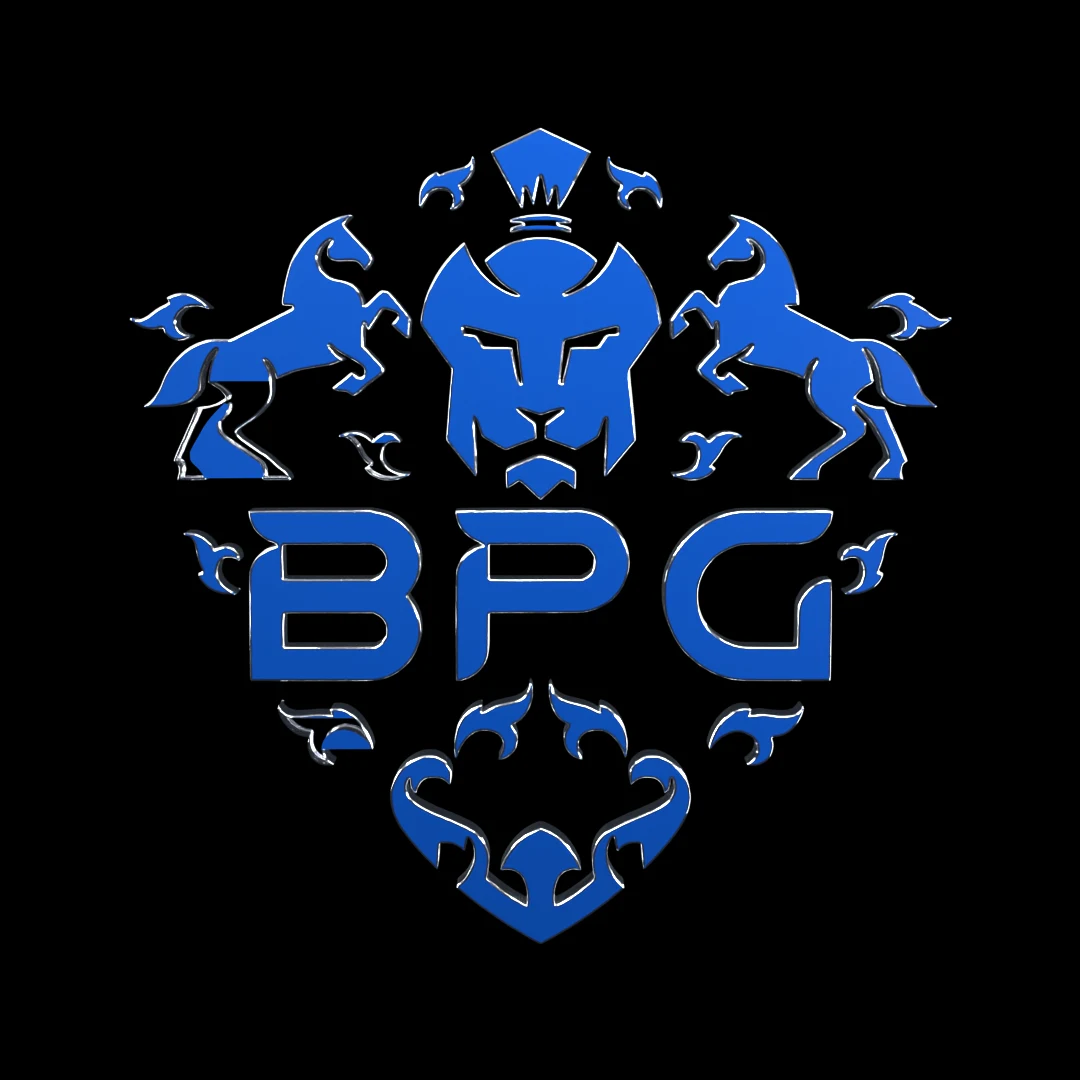
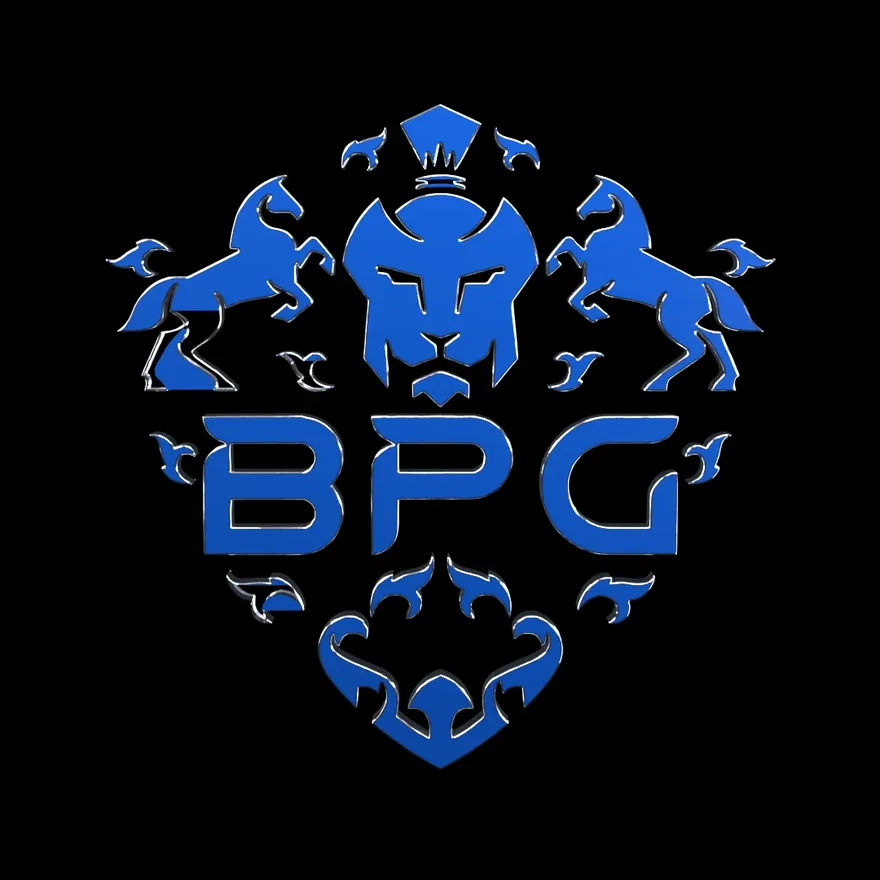
perf: faster LCP and full accessibility on both sites
- Hero LCP images stay opaque with a transform-only entrance (CSS, not a
  hydration-gated JS tween) and are preloaded
- Client logos as 2x-sized WebP (~205 KB -> ~54 KB), smaller emblem poster
- Logo and thumbnail sizes so phones fetch right-sized images
- Name client logo links for screen readers; underline the media footer
  link and enlarge footer tap targets

diff --git a/src/components/hero-cards.tsx b/src/components/hero-cards.tsx
@@ -2,10 +2,12 @@
 
 import { useRef } from "react";
 import Image from "next/image";
-import { gsap, useGSAP, EASE, MOTION_OK } from "@/lib/gsap";
+import { gsap, useGSAP, MOTION_OK } from "@/lib/gsap";
 import { verticals, brand } from "@/content/site";
 
-// Stack of floating liquid-glass cards. On desktop each layer sits at a
+// Stack of floating liquid-glass cards. Each card fades up with a CSS
+// animation (starts on first paint, unlike a JS tween that waits for
+// hydration and delays LCP); GSAP drives only scroll depth and pointer tilt. On desktop each layer sits at a
 // different depth: they tilt toward the pointer (quickTo, no React state) and
 // drift apart on scroll. Below lg the cards fall back to a clean grid (Media
 // full width, Tourism and Trading side by side) so nothing overlaps.
@@ -16,17 +18,6 @@ export function HeroCards() {
   useGSAP(
     () => {
       const mm = gsap.matchMedia();
-      mm.add(MOTION_OK, () => {
-        gsap.from(".hc", {
-          y: 70,
-          opacity: 0,
-          rotateX: -12,
-          duration: 1.3,
-          ease: EASE,
-          stagger: 0.12,
-          delay: 0.25,
-        });
-      });
 
       // Scroll depth (desktop layered composition only): deeper layers move less.
       mm.add(`${MOTION_OK} and (min-width: 1024px)`, () => {
@@ -82,27 +73,29 @@ export function HeroCards() {
           className="hc relative z-20 col-span-2 lg:absolute lg:inset-x-[4%] lg:top-[7%]"
           data-depth="1.4"
         >
-          <div className="hc-shift" data-depth="1.4">
-            <div className="lg animate-float overflow-hidden rounded-[30px] p-3">
-              <div className="relative aspect-[16/10] overflow-hidden rounded-[22px]">
-                <Image
-                  src={media.image}
-                  alt={media.alt}
-                  fill
-                  preload
-                  sizes="(min-width: 1024px) 480px, 92vw"
-                  className="object-cover"
-                />
-              </div>
-              <div className="flex items-center justify-between gap-3 px-2 pt-4 pb-1.5">
-                <div>
-                  <p className="text-[19px] font-semibold tracking-[-0.01em]">{media.name}</p>
-                  <p className="text-[14px] text-muted">{media.tagline}</p>
+          <div className="animate-rise-solid">
+            <div className="hc-shift" data-depth="1.4">
+              <div className="lg animate-float overflow-hidden rounded-[30px] p-3">
+                <div className="relative aspect-[16/10] overflow-hidden rounded-[22px]">
+                  <Image
+                    src={media.image}
+                    alt={media.alt}
+                    fill
+                    preload
+                    sizes="(min-width: 1024px) 480px, 92vw"
+                    className="object-cover"
+                  />
                 </div>
-                <span className="lg-thin inline-flex shrink-0 items-center gap-2 rounded-full px-3 py-1.5 text-[13px] font-semibold whitespace-nowrap text-blue-bright">
-                  <span className="size-1.5 rounded-full bg-blue-bright" aria-hidden />
-                  {media.status}
-                </span>
+                <div className="flex items-center justify-between gap-3 px-2 pt-4 pb-1.5">
+                  <div>
+                    <p className="text-[19px] font-semibold tracking-[-0.01em]">{media.name}</p>
+                    <p className="text-[14px] text-muted">{media.tagline}</p>
+                  </div>
+                  <span className="lg-thin inline-flex shrink-0 items-center gap-2 rounded-full px-3 py-1.5 text-[13px] font-semibold whitespace-nowrap text-blue-bright">
+                    <span className="size-1.5 rounded-full bg-blue-bright" aria-hidden />
+                    {media.status}
+                  </span>
+                </div>
               </div>
             </div>
           </div>
@@ -113,19 +106,21 @@ export function HeroCards() {
           className="hc relative z-30 lg:absolute lg:bottom-[2%] lg:left-0 lg:w-[42%]"
           data-depth="2"
         >
-          <div className="hc-shift" data-depth="2">
-            <div className="lg animate-float overflow-hidden rounded-[24px] p-2.5 [animation-delay:-2.5s]">
-              <div className="relative aspect-[4/3] overflow-hidden rounded-[18px]">
-                <Image
-                  src={tourism.image}
-                  alt={tourism.alt}
-                  fill
-                  sizes="(min-width: 1024px) 240px, 46vw"
-                  className="object-cover"
-                />
+          <div className="animate-rise" style={{ animationDelay: "370ms" }}>
+            <div className="hc-shift" data-depth="2">
+              <div className="lg animate-float overflow-hidden rounded-[24px] p-2.5 [animation-delay:-2.5s]">
+                <div className="relative aspect-[4/3] overflow-hidden rounded-[18px]">
+                  <Image
+                    src={tourism.image}
+                    alt={tourism.alt}
+                    fill
+                    sizes="(min-width: 1024px) 240px, 46vw"
+                    className="object-cover"
+                  />
+                </div>
+                <p className="px-1.5 pt-3 text-[15px] font-semibold">{tourism.name}</p>
+                <p className="px-1.5 pb-1 text-[13px] text-muted">Coming soon</p>
               </div>
-              <p className="px-1.5 pt-3 text-[15px] font-semibold">{tourism.name}</p>
-              <p className="px-1.5 pb-1 text-[13px] text-muted">Coming soon</p>
             </div>
           </div>
         </div>
@@ -133,33 +128,37 @@ export function HeroCards() {
           className="hc relative z-10 lg:absolute lg:right-[2%] lg:bottom-0 lg:w-[40%]"
           data-depth="0.8"
         >
-          <div className="hc-shift" data-depth="0.8">
-            <div className="lg animate-float overflow-hidden rounded-[24px] p-2.5 [animation-delay:-4.5s]">
-              <div className="relative aspect-[4/3] overflow-hidden rounded-[18px]">
-                <Image
-                  src={trading.image}
-                  alt={trading.alt}
-                  fill
-                  sizes="(min-width: 1024px) 230px, 46vw"
-                  className="object-cover"
-                />
+          <div className="animate-rise" style={{ animationDelay: "490ms" }}>
+            <div className="hc-shift" data-depth="0.8">
+              <div className="lg animate-float overflow-hidden rounded-[24px] p-2.5 [animation-delay:-4.5s]">
+                <div className="relative aspect-[4/3] overflow-hidden rounded-[18px]">
+                  <Image
+                    src={trading.image}
+                    alt={trading.alt}
+                    fill
+                    sizes="(min-width: 1024px) 230px, 46vw"
+                    className="object-cover"
+                  />
+                </div>
+                <p className="px-1.5 pt-3 text-[15px] font-semibold">{trading.name}</p>
+                <p className="px-1.5 pb-1 text-[13px] text-muted">Coming soon</p>
               </div>
-              <p className="px-1.5 pt-3 text-[15px] font-semibold">{trading.name}</p>
-              <p className="px-1.5 pb-1 text-[13px] text-muted">Coming soon</p>
             </div>
           </div>
         </div>
 
         {/* Since 2010 badge. */}
         <div className="hc absolute top-0 right-2 z-30 lg:right-[2%]" data-depth="2.4">
-          <div className="hc-shift" data-depth="2.4">
-            <div className="lg animate-float rounded-[18px] px-3.5 py-2.5 text-center [animation-delay:-1.2s] lg:rounded-[22px] lg:px-5 lg:py-4">
-              <p className="text-[10px] font-semibold tracking-[0.08em] text-muted uppercase lg:text-[12px]">
-                Since
-              </p>
-              <p className="text-sheen font-display text-[24px] leading-none font-semibold tracking-[-0.03em] lg:text-[34px]">
-                {brand.since}
-              </p>
+          <div className="animate-rise" style={{ animationDelay: "610ms" }}>
+            <div className="hc-shift" data-depth="2.4">
+              <div className="lg animate-float rounded-[18px] px-3.5 py-2.5 text-center [animation-delay:-1.2s] lg:rounded-[22px] lg:px-5 lg:py-4">
+                <p className="text-[10px] font-semibold tracking-[0.08em] text-muted uppercase lg:text-[12px]">
+                  Since
+                </p>
+                <p className="text-sheen font-display text-[24px] leading-none font-semibold tracking-[-0.03em] lg:text-[34px]">
+                  {brand.since}
+                </p>
+              </div>
             </div>
           </div>
         </div>

diff --git a/src/components/client-logos.tsx b/src/components/client-logos.tsx
@@ -21,28 +21,28 @@ function LogoSet({ hidden = false }: { hidden?: boolean }) {
         const h = Math.min(44 * boost, (136 * boost * client.h) / client.w);
         const w = Math.round((h * client.w) / client.h);
         return (
-          <li key={`${client.name}-${i}`} className={i >= clients.length ? "motion-reduce:hidden" : undefined}>
+          <li key={`${client.name}-${i}`} aria-hidden={copy || undefined} className={i >= clients.length ? "motion-reduce:hidden" : undefined}>
             <a
               href={client.url}
               target="_blank"
               rel="noreferrer"
               tabIndex={copy ? -1 : undefined}
+              aria-label={`${client.name} (opens in a new tab)`}
               className="flex h-[70px] w-[152px] items-center justify-center rounded-[20px] bg-gradient-to-b from-white/[0.92] to-white/[0.78] shadow-[inset_0_1px_0_rgba(255,255,255,0.9),inset_0_0_0_1px_rgba(255,255,255,0.35),0_14px_34px_-16px_rgba(0,0,0,0.7)] backdrop-blur-xl transition duration-300 hover:-translate-y-1 hover:from-white hover:to-white/95 sm:h-[84px] sm:w-[184px]"
             >
               <Image
-                src={`${DIR}/${client.src}-color.png`}
-                alt={copy ? "" : client.name}
+                src={`${DIR}/${client.src}.webp`}
+                alt=""
                 width={client.w}
                 height={client.h}
                 // Lazy loading misses tiles that slide in via the marquee transform.
                 loading="eager"
-                // Small pre-sized PNGs: serve as-is, skipping the optimiser cache.
+                // Pre-sized WebPs at 2x their display size: served as-is.
                 unoptimized
                 // Scaled to 82% on phones, where the tiles are smaller.
                 style={{ "--w": `${w}px`, "--h": `${h}px` } as React.CSSProperties}
                 className="h-[calc(var(--h)*0.82)] w-[calc(var(--w)*0.82)] object-contain sm:h-(--h) sm:w-(--w)"
               />
-              {!copy && <span className="sr-only"> (opens in a new tab)</span>}
             </a>
           </li>
         );

diff --git a/media/src/components/site-footer.tsx b/media/src/components/site-footer.tsx
@@ -11,7 +11,7 @@ export function SiteFooter() {
             <Logo className="h-10 w-auto" />
             <p className="mt-4 max-w-[34ch] text-[14px] leading-relaxed text-muted">
               BPG Media is the live streaming arm of{" "}
-              <a href="https://bepositivegroup.com" target="_blank" rel="noreferrer" className="text-text hover:underline">
+              <a href="https://bepositivegroup.com" target="_blank" rel="noreferrer" className="text-text underline decoration-white/35 underline-offset-4 transition-colors hover:decoration-white">
                 Be Positive Group
               </a>
               .
@@ -22,7 +22,7 @@ export function SiteFooter() {
             <ul className="grid grid-cols-2 gap-x-10 gap-y-2.5 text-[14px] sm:grid-cols-3">
               {nav.map((item) => (
                 <li key={item.href}>
-                  <a href={item.href} className="text-text/80 hover:text-white">
+                  <a href={item.href} className="inline-block py-1.5 text-text/80 hover:text-white">
                     {item.label}
                   </a>
                 </li>

diff --git a/src/app/globals.css b/src/app/globals.css
@@ -224,6 +224,18 @@ h3 {
   animation: rise 0.9s cubic-bezier(0.16, 1, 0.3, 1) both;
 }
 
+/* Motion without the fade, for the LCP element: it stays fully opaque so the
+   browser (and PageSpeed) counts it as painted on the first frame. */
+@keyframes rise-solid {
+  from {
+    transform: translateY(26px);
+  }
+}
+
+.animate-rise-solid {
+  animation: rise-solid 0.9s cubic-bezier(0.16, 1, 0.3, 1) both;
+}
+
 /* Slow idle float for the hero's glass cards. */
 @keyframes float {
   0%,
@@ -259,6 +271,7 @@ h3 {
 @media (prefers-reduced-motion: reduce) {
   .animate-marquee,
   .animate-rise,
+  .animate-rise-solid,
   .animate-float,
   .pulse-ring {
     animation: none;

diff --git a/media/src/components/races.tsx b/media/src/components/races.tsx
@@ -50,7 +50,7 @@ export async function Races() {
                       src={race.thumbnail}
                       alt=""
                       fill
-                      sizes="(min-width: 640px) 560px, 100vw"
+                      sizes="(min-width: 640px) 560px, calc(100vw - 48px)"
                       className="object-cover transition-transform duration-700 ease-[cubic-bezier(0.16,1,0.3,1)] group-hover:scale-[1.03]"
                     />
                     <span className="absolute inset-0 flex items-center justify-center opacity-0 transition-opacity duration-300 group-hover:opacity-100">

diff --git a/media/src/app/globals.css b/media/src/app/globals.css
@@ -242,6 +242,18 @@ h3 {
   animation: rise 0.9s cubic-bezier(0.16, 1, 0.3, 1) both;
 }
 
+/* Motion without the fade, for the LCP element: it stays fully opaque so the
+   browser (and PageSpeed) counts it as painted on the first frame. */
+@keyframes rise-solid {
+  from {
+    transform: translateY(26px);
+  }
+}
+
+.animate-rise-solid {
+  animation: rise-solid 0.9s cubic-bezier(0.16, 1, 0.3, 1) both;
+}
+
 @keyframes live-pulse {
   0%,
   100% {
@@ -261,6 +273,7 @@ h3 {
   .marquee-left,
   .marquee-right,
   .animate-rise,
+  .animate-rise-solid,
   .live-dot {
     animation: none;
   }

diff --git a/media/src/components/hero.tsx b/media/src/components/hero.tsx
@@ -17,7 +17,7 @@ export function Hero() {
       />
       <DotField className="[mask-image:radial-gradient(ellipse_at_center,black_30%,transparent_78%)]" />
       <div className="mx-auto flex max-w-[1200px] flex-col items-center px-5 pt-8 pb-16 text-center sm:pt-10">
-        <div className="animate-rise w-full">
+        <div className="animate-rise-solid w-full">
           <HeroScreen src="/images/gallery/bpg-race-07.webp" alt="PBC Pallathuruthy crew in perfect sync at the prow" />
         </div>
 

diff --git a/media/src/components/collage.tsx b/media/src/components/collage.tsx
@@ -18,7 +18,7 @@ function Row({ items, direction }: { items: Photo[]; direction: "left" | "right"
               src={p.src}
               alt={i >= items.length ? "" : p.alt}
               fill
-              sizes="320px"
+              sizes="(min-width: 640px) 320px, 260px"
               className="object-cover"
             />
           </li>

diff --git a/src/components/brand-emblem.tsx b/src/components/brand-emblem.tsx
@@ -67,8 +67,8 @@ export function BrandEmblem({ className = "" }: { className?: string }) {
         <img
           src={POSTER}
           alt=""
-          width={1080}
-          height={1080}
+          width={880}
+          height={880}
           className="absolute inset-0 size-full mix-blend-screen"
         />
       )}

diff --git a/media/src/components/logo.tsx b/media/src/components/logo.tsx
@@ -11,6 +11,8 @@ export function Logo({ className = "h-8 w-auto" }: { className?: string }) {
         alt="Be Positive Group"
         width={1006}
         height={323}
+        // Shown at ~120-150px wide: offer small candidates, not 1080/2048.
+        sizes="160px"
         preload
         className={className}
       />

diff --git a/src/components/logo.tsx b/src/components/logo.tsx
@@ -11,6 +11,8 @@ export function Logo({ className = "h-9 w-auto" }: { className?: string }) {
         alt="Be Positive Group"
         width={1006}
         height={323}
+        // Shown at ~120-150px wide: offer small candidates, not 1080/2048.
+        sizes="160px"
         preload
         className={className}
       />
